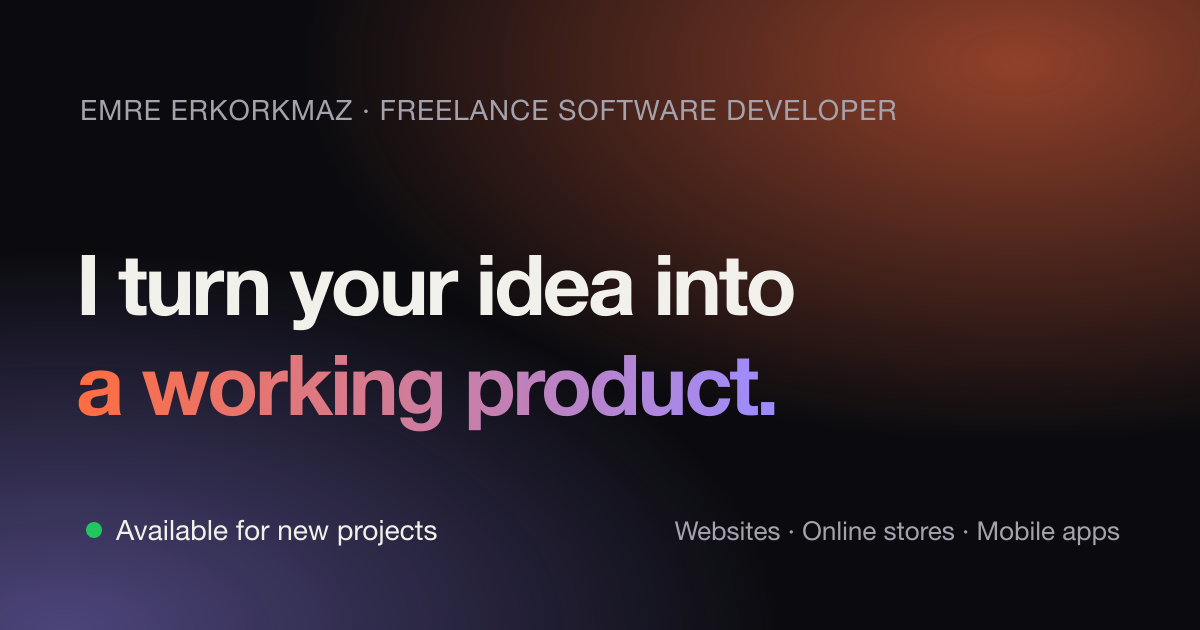
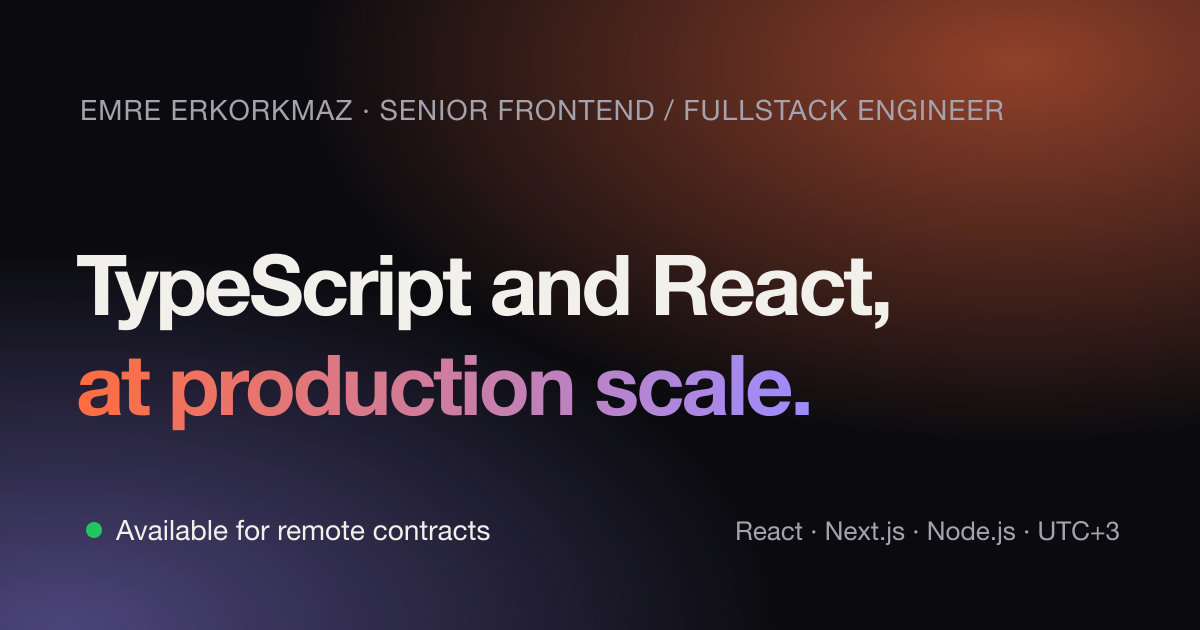
feat(seo): update titles, descriptions, OG cards and JSON-LD
Home title and description (EN, TR) describe a senior TypeScript engineer for
remote contracts. OG cards are regenerated with the new positioning. JSON-LD
lists the new job title; ProfessionalService data moves to /services, which
has its own title and description.

diff --git a/src/i18n/ui.ts b/src/i18n/ui.ts
@@ -6,9 +6,9 @@ export const defaultLang: Lang = 'en';
 
 export const ui = {
   tr: {
-    'meta.title': 'Emre Erkorkmaz — Freelance Full-Stack Engineer',
+    'meta.title': 'Emre Erkorkmaz — Kıdemli Frontend / Full-Stack Mühendis',
     'meta.description':
-      'Serbest yazılım geliştirici Emre Erkorkmaz: işletmeler için hızlı web siteleri, online mağazalar ve mobil uygulamalar. Ücretsiz ön görüşme için iletişime geçin.',
+      'Uzaktan sözleşmeli işler için kıdemli TypeScript mühendisi: React ve Next.js arayüzleri, Node.js API’leri, design system’ler ve yapay zekâ destekli ürün özellikleri. Türkiye, UTC+3.',
     skip: 'İçeriğe geç',
     'nav.services': 'İşletmeler için',
     'nav.cases': 'İşler',
@@ -103,9 +103,9 @@ export const ui = {
     'nav.home': 'Ana sayfa',
   },
   en: {
-    'meta.title': 'Emre Erkorkmaz — Freelance Full-Stack Engineer',
+    'meta.title': 'Emre Erkorkmaz — Senior Frontend / Fullstack Engineer',
     'meta.description':
-      'Freelance developer Emre Erkorkmaz builds fast websites, online stores and mobile apps for businesses. Get in touch for a free intro call.',
+      'Senior TypeScript engineer for remote contracts: React and Next.js frontends, Node.js APIs, design systems and AI-powered product features. Based in Türkiye, UTC+3.',
     skip: 'Skip to content',
     'nav.services': 'For businesses',
     'nav.cases': 'Work',
